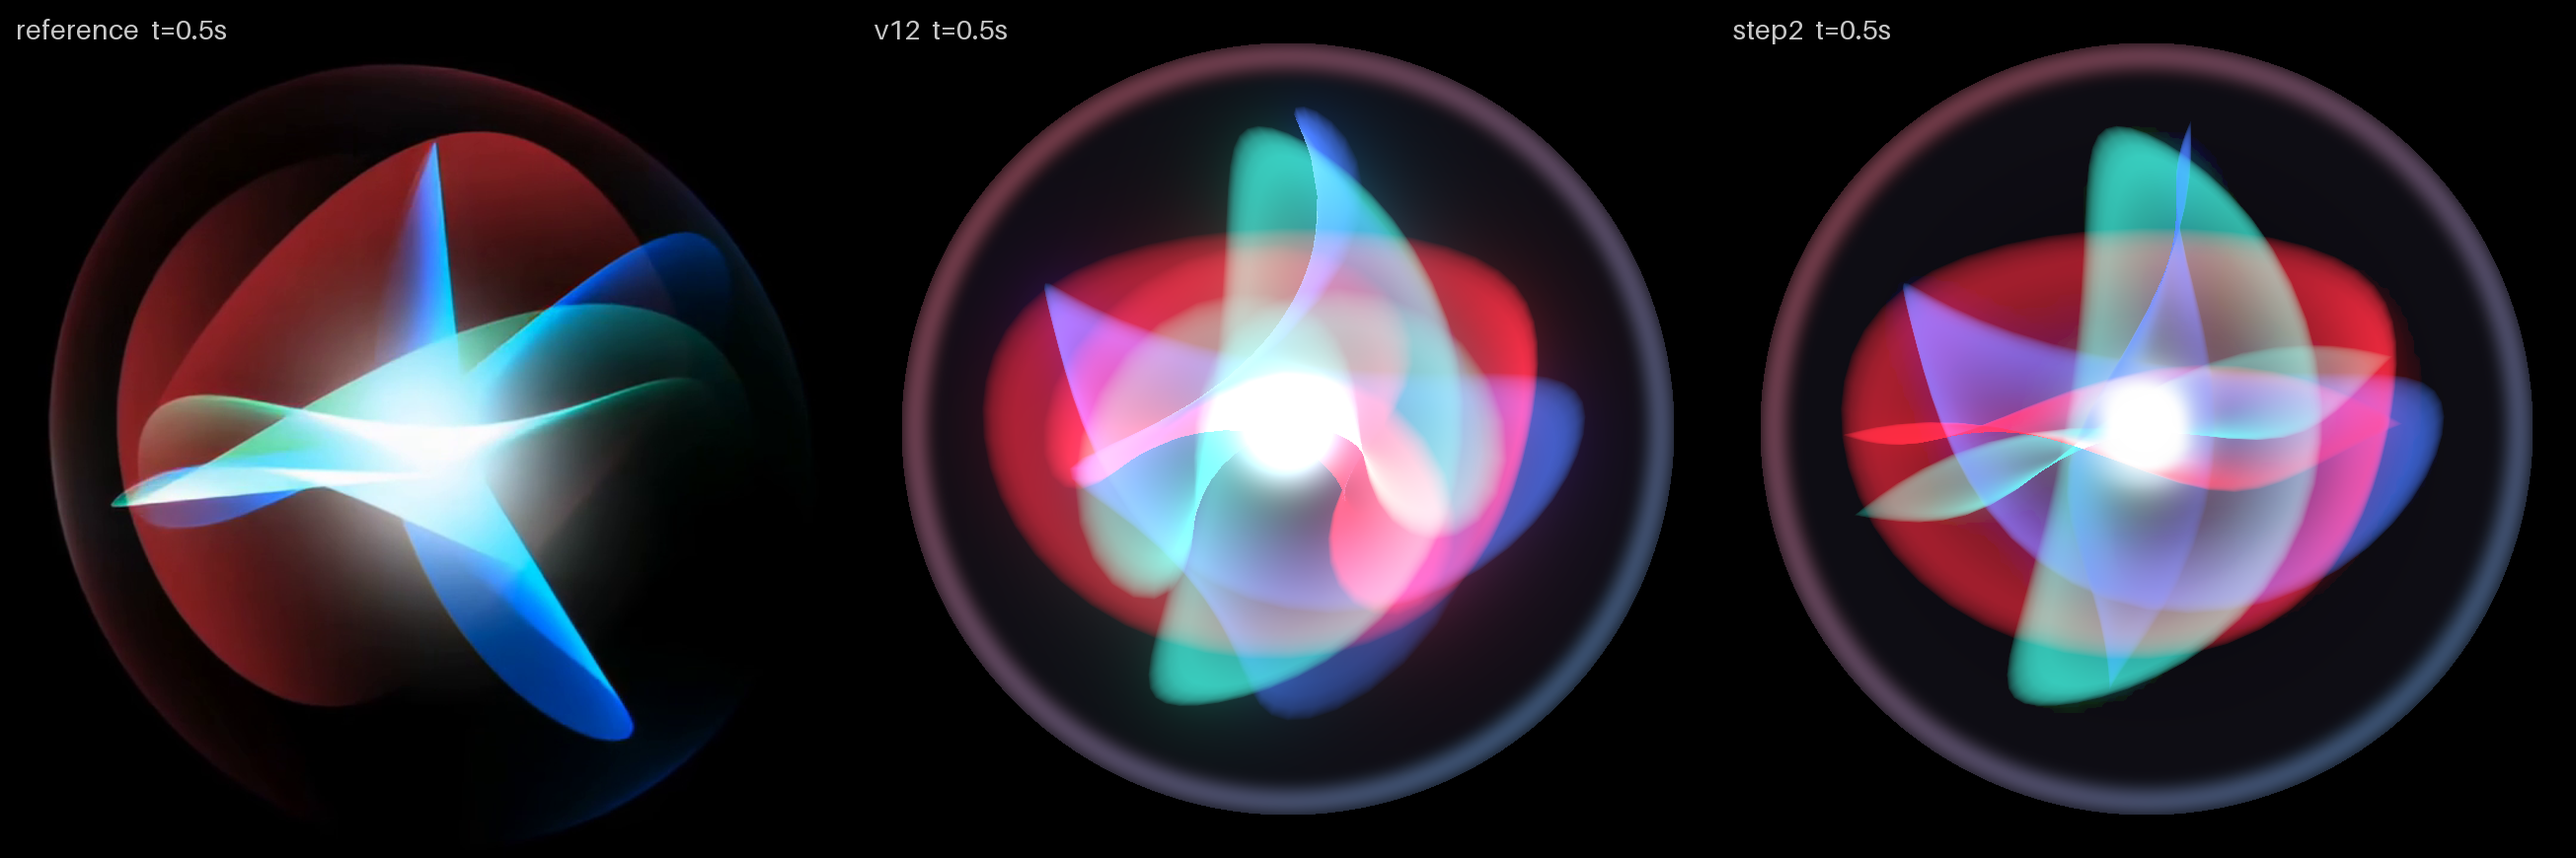
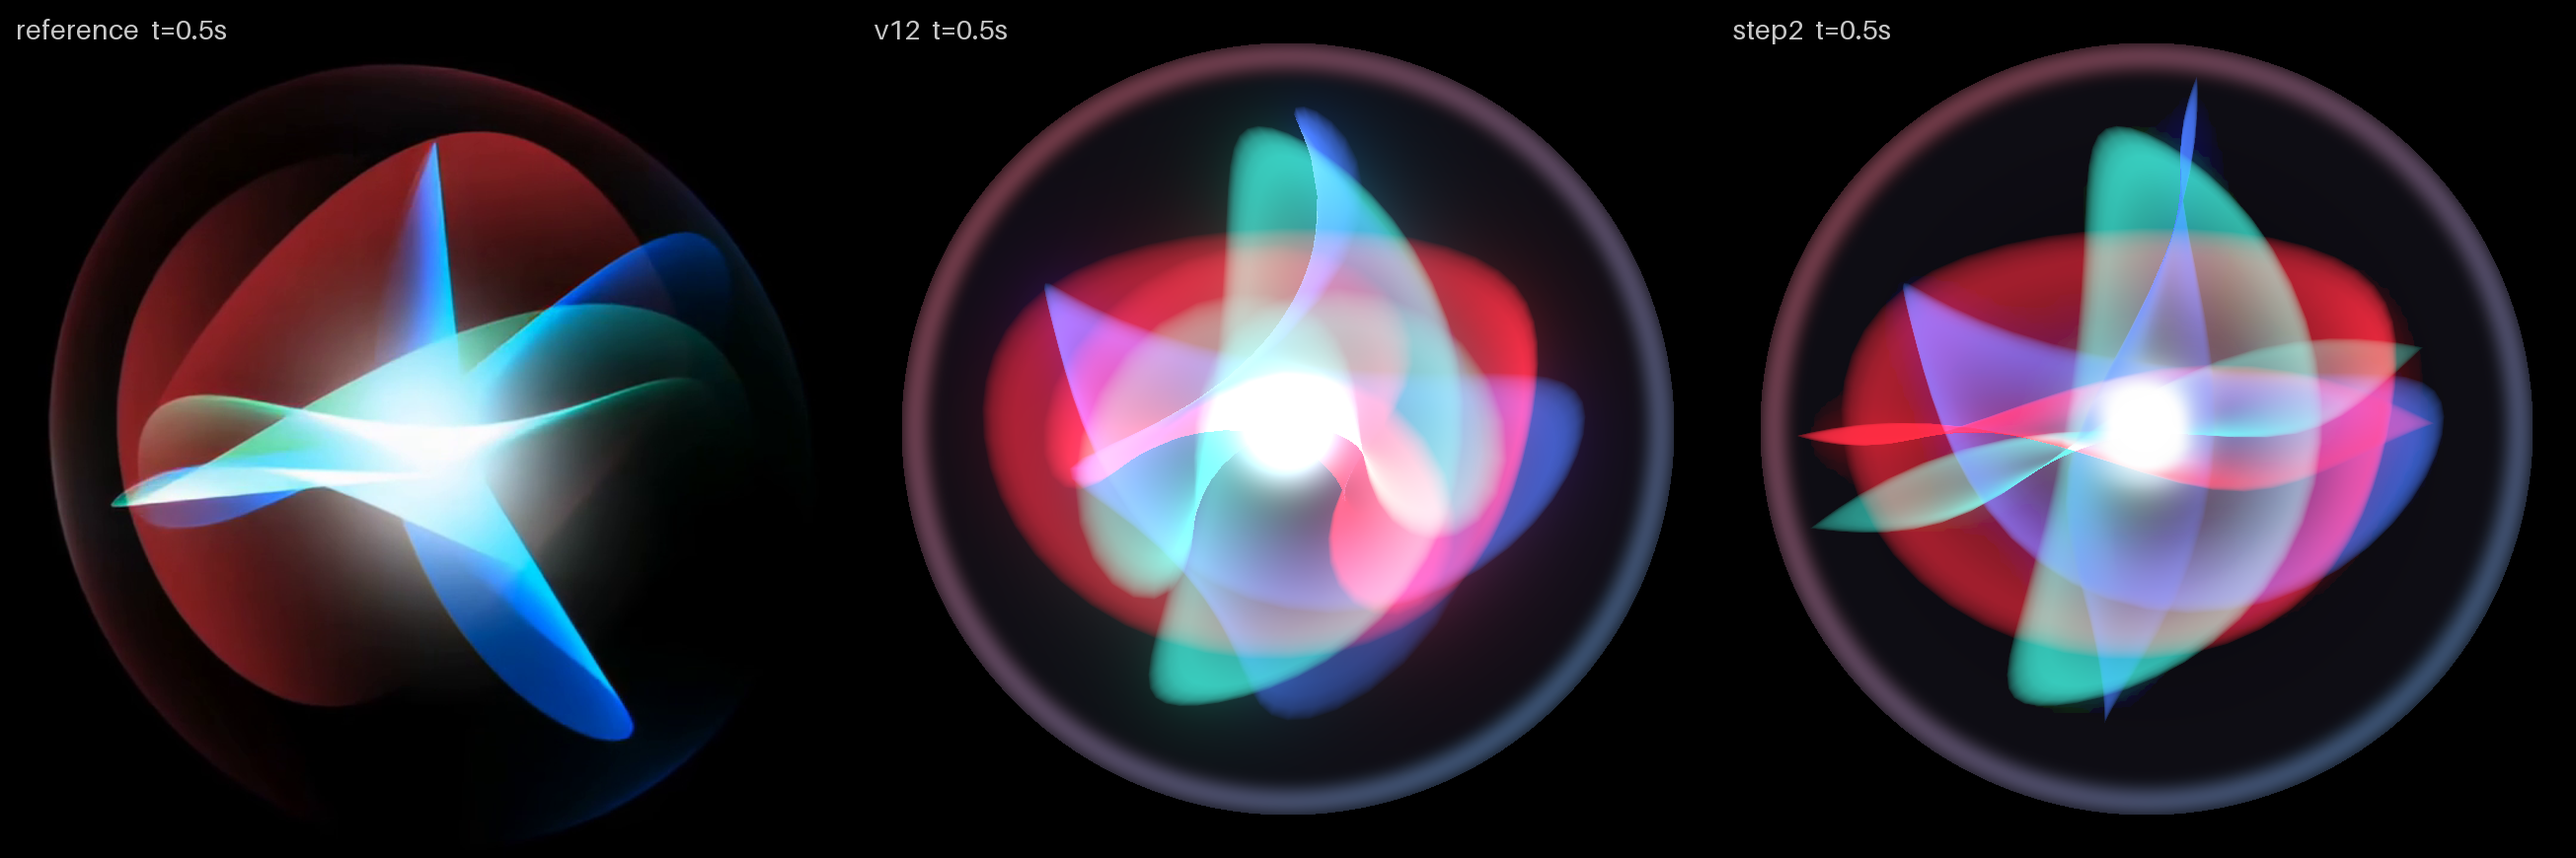
siri idle ae-v20 step2 fix: narrow petal semi length 1.0R (the evaluated value; step2 commit left it at 0.88R), step2 stills/stats regenerated

diff --git a/tools/siri-preview/src/main/kotlin/com/jetbrains/kmpapp/preview/SheetPrototype.kt b/tools/siri-preview/src/main/kotlin/com/jetbrains/kmpapp/preview/SheetPrototype.kt
@@ -922,7 +922,7 @@ internal val V11_B = 0.566          // semi axis across (R) // ae-v12
 internal var V11_BLADE_B = 0.2   // narrow (high-twist) petal half width (R) // ae-v20
 internal var V11_BLADE_TIP = 0.5 // width ~ (1 - u^2)^(0.5 + tip): pointed lens ends // ae-v20
 internal var V11_BLADE_MAX_TILT = 35.0 // deg // ae-v20
-internal var V11_BLADE_A = (System.getenv("BA") ?: "0.88").toDouble() // ae-v20
+internal var V11_BLADE_A = 1.0     // narrow petal semi length (R) // ae-v20
 internal var V11_OFF = 0.0        // disc centre shifted along its length so one end sits near the ball centre // ae-v11 tuned // ae-v12
 internal val V11_CAM = 5.85        // camera distance in R (AE 2700 / 461)
 internal val V11_GROUP_AXIS = arrayOf(doubleArrayOf(1.8952, -0.3300, -1.1176), doubleArrayOf(0.1698, 1.9073, -0.3075))   // ae-v11: searched for lowest pairwise overlap // ae-v12
